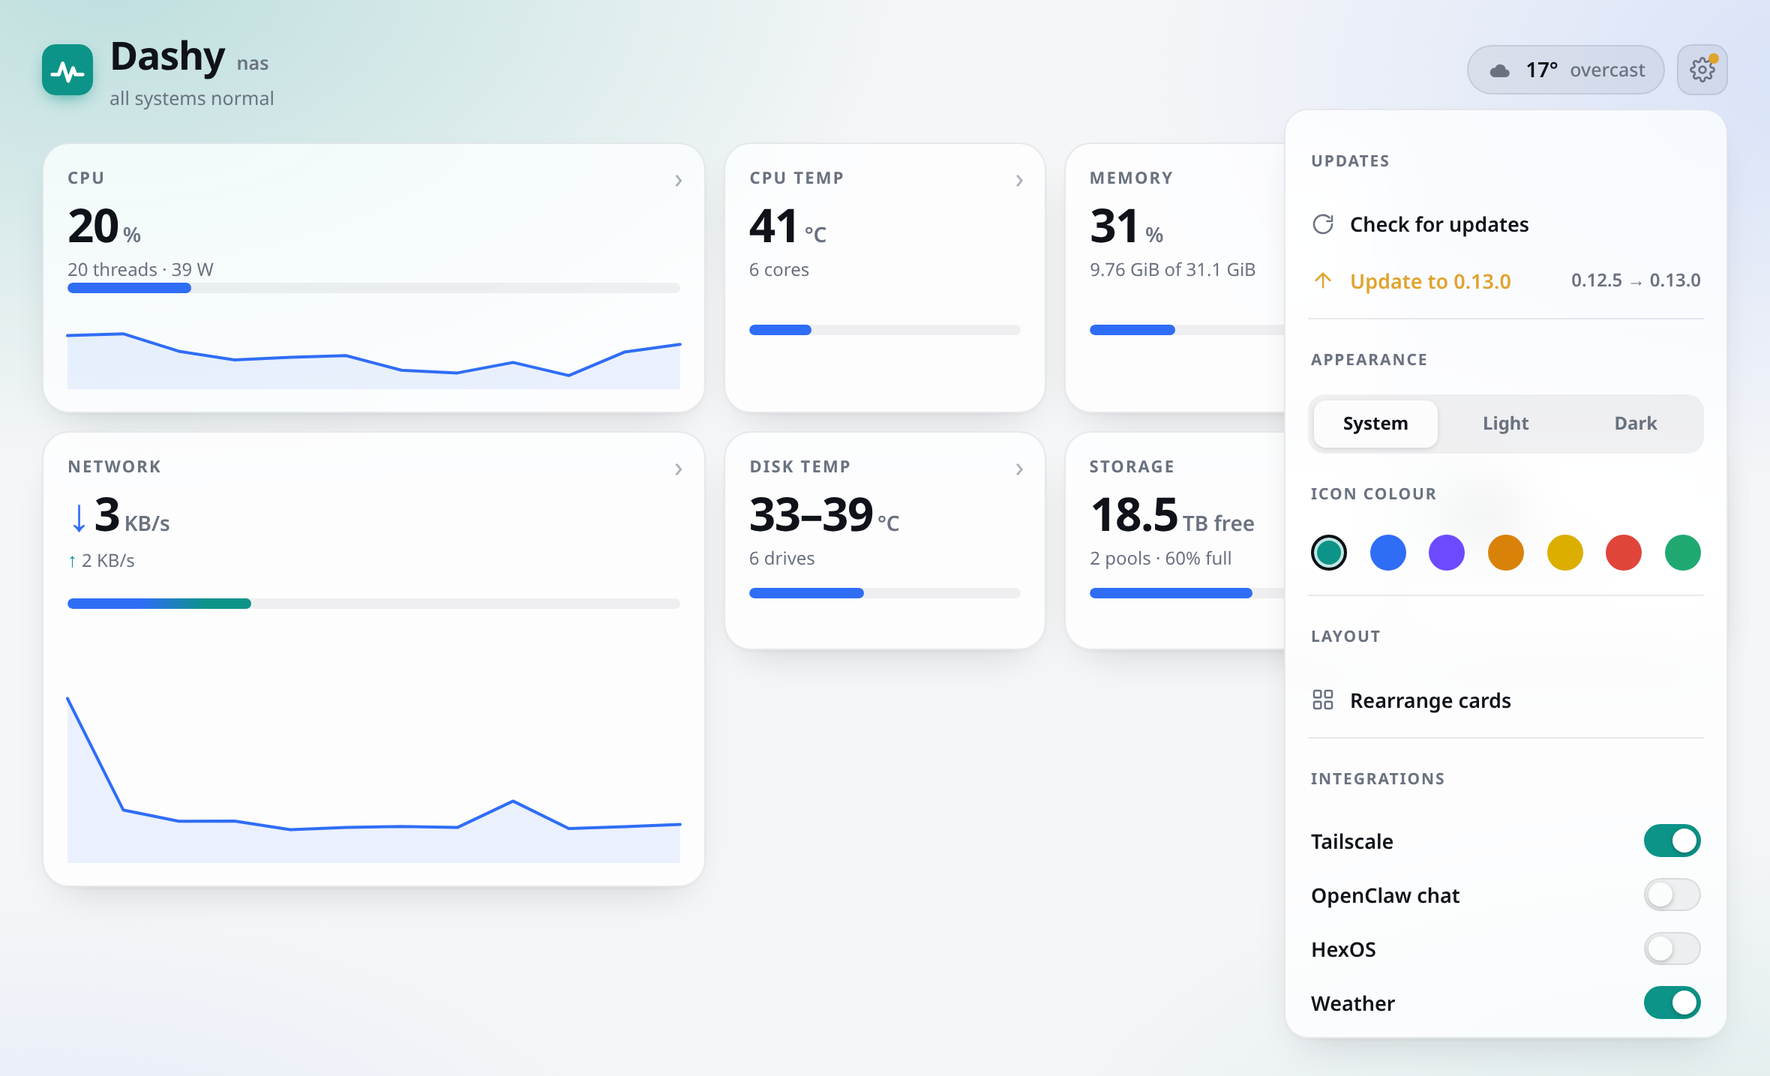
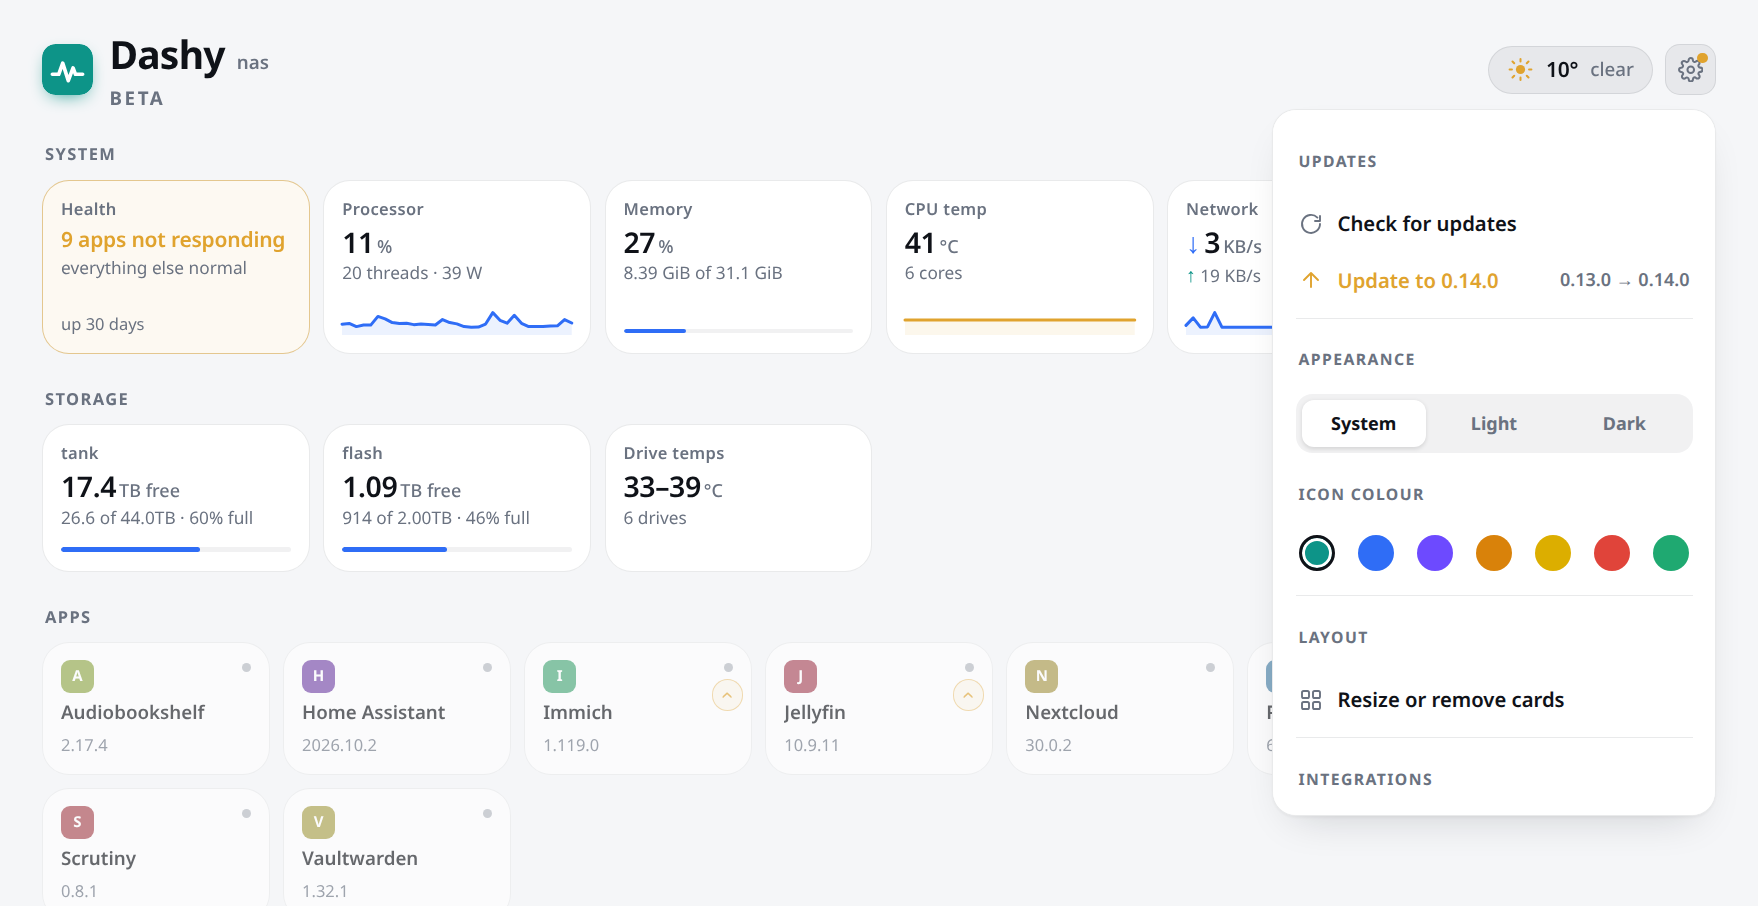
0.13.0: opaque surfaces, arrange tidy-up, new screenshots
- --panel was rgba(255,255,255,.76), left from when every surface sat on a
  backdrop-filter. The redesign dropped the blur, so over the detail sheet's
  dark scrim that 76% white rendered grey. Both palettes are opaque now.
- A pool card opens the storage sheet. It had no data-pop at all, so tapping
  one did nothing.
- The Health card gets the same remove and resize controls as every other
  card; it was the only exception and there was no reason for it.
- Arrange mode drops the "hold to drag" caption, which described a gesture
  that no longer exists and sat across the sparkline. The overlay behind the
  size button is opaque enough to actually hide what is under it.
- Settings says "Resize or remove cards" rather than "Rearrange cards".
- Screenshots retaken on the new design. 04-apps becomes 04-detail: the apps
  are a section on the front page now, so a sheet of them is not the
  interesting half any more.

Taken and verified by driving the real page over CDP - every detail sheet,
the settings menu, arrange mode, resize, remove and restore - with window
errors and unhandled rejections collected throughout. Clean.

diff --git a/app/server.py b/app/server.py
@@ -1200,7 +1200,7 @@ PAGE = """<!doctype html>
 <style>
   :root{
     color-scheme:light dark;
-    --bg:#f5f6f8; --panel:rgba(255,255,255,.76); --brd:rgba(16,20,28,.09);
+    --bg:#f5f6f8; --panel:#ffffff; --brd:rgba(16,20,28,.09);
     --ink:#0f1218; --muted:#6a7280; --faint:rgba(16,20,28,.06);
     --ok:#1fa971; --warn:#e0a32e; --bad:#e0443a;
     --accent:#2f6df6; --brand:#0d9488;
@@ -1211,7 +1211,7 @@ PAGE = """<!doctype html>
      has explicitly chosen light), once for an explicit dark choice */
   @media (prefers-color-scheme:dark){
     :root:not([data-theme="light"]){
-      --bg:#0a0c10; --panel:rgba(23,27,34,.76); --brd:rgba(255,255,255,.09);
+      --bg:#0a0c10; --panel:#171b22; --brd:rgba(255,255,255,.09);
       --ink:#eef1f5; --muted:#949cab; --faint:rgba(255,255,255,.06);
       --ok:#34d399; --warn:#fbbf24; --bad:#f87171;
       --accent:#5b8cff; --brand:#14b8a6;
@@ -1220,7 +1220,7 @@ PAGE = """<!doctype html>
     }
   }
   :root[data-theme="dark"]{
-      --bg:#0a0c10; --panel:rgba(23,27,34,.76); --brd:rgba(255,255,255,.09);
+      --bg:#0a0c10; --panel:#171b22; --brd:rgba(255,255,255,.09);
       --ink:#eef1f5; --muted:#949cab; --faint:rgba(255,255,255,.06);
       --ok:#34d399; --warn:#fbbf24; --bad:#f87171;
       --accent:#5b8cff; --brand:#14b8a6;
@@ -1397,7 +1397,7 @@ PAGE = """<!doctype html>
             -webkit-touch-callout:none}
   .cardwrap .card{width:100%}
   .cardtools{position:absolute;inset:0;display:none;align-items:center;justify-content:center;
-             gap:7px;background:color-mix(in srgb,var(--panel) 86%,transparent);
+             gap:7px;background:color-mix(in srgb,var(--panel) 97%,transparent);
              border-radius:var(--r);z-index:3}
   body.editing .cardtools{display:flex}
   .cardtools button{width:30px;height:30px;border-radius:9px;border:1px solid var(--brd);
@@ -1416,8 +1416,6 @@ PAGE = """<!doctype html>
         box-shadow:0 1px 3px rgba(0,0,0,.34),0 0 0 .5px rgba(0,0,0,.12)}
   body.editing .xbtn{display:flex}
   .cardwrap[data-off="1"] .xbtn{color:var(--ok);font-weight:700}
-  .cardtools .hint{position:absolute;bottom:8px;left:0;right:0;text-align:center;
-                   font-size:10px;color:var(--muted);font-weight:600;pointer-events:none}
   .cardwrap[data-off="1"] .card,
   .cardwrap[data-off="1"] .cardtools{opacity:.34}
   body:not(.editing) .cardwrap[data-off="1"]{display:none}
@@ -1774,7 +1772,7 @@ PAGE = """<!doctype html>
           <button class="mi" id="mi-edit" type="button" role="menuitem">
             <svg viewBox="0 0 24 24" fill="none" stroke="currentColor" stroke-width="1.9"
                  stroke-linecap="round" stroke-linejoin="round"><rect x="3" y="3" width="7" height="7" rx="1.6"/><rect x="14" y="3" width="7" height="7" rx="1.6"/><rect x="3" y="14" width="7" height="7" rx="1.6"/><rect x="14" y="14" width="7" height="7" rx="1.6"/></svg>
-            Rearrange cards</button>
+            Resize or remove cards</button>
           <div class="msep"></div>
           <p class="mh">Integrations</p>
           <div class="mrow"><span class="ml">Tailscale</span>
@@ -2429,6 +2427,13 @@ function resetLayout(){
   savePrefs(); build(); if(data) paint(data);
 }
 
+function cardTools(k){
+  return '<div class="cardtools">'+
+      '<button type="button" class="wbtn" data-wide="'+k+'" aria-label="Change size"></button>'+
+    '</div>'+
+    '<button type="button" class="xbtn" data-eye="'+k+'" aria-label="Remove"></button>';
+}
+
 function cardHTML(c){
   // the one card that answers a question rather than reporting a number
   if(c.kind==='health'){
@@ -2438,7 +2443,7 @@ function cardHTML(c){
                '<p class="hv" id="v-health">\u2013</p>'+
                '<p class="sub" id="s-health"></p>'+
                '<p class="hfoot" id="f-health"></p>'+
-             '</button>'+
+             '</button>'+cardTools(c.k)+
            '</div></div>';
   }
   const head = c.dot
@@ -2451,14 +2456,10 @@ function cardHTML(c){
   const spark = c.trend
     ? '<div class="sparkwrap"><svg class="spark" id="k-'+c.k+
       '" preserveAspectRatio="none" viewBox="0 0 160 20"></svg></div>' : '';
-  const tools='<div class="cardtools">'+
-      '<button type="button" class="wbtn" data-wide="'+c.k+'" aria-label="Change size"></button>'+
-      '<span class="hint">hold to drag</span>'+
-    '</div>'+
-    '<button type="button" class="xbtn" data-eye="'+c.k+'" aria-label="Remove"></button>';
+  const tools=cardTools(c.k);
   return '<div class="cardwrap" data-k="'+c.k+'">'+
            '<div class="jig">'+
-             '<button class="card" data-pop="'+c.k+'">'+
+             '<button class="card" data-pop="'+(c.pop||c.k)+'">'+
                '<p class="lbl">'+c.label+'</p>'+body+spark+
              '</button>'+tools+
            '</div>'+
@@ -2471,7 +2472,7 @@ function cardHTML(c){
    to know. */
 function poolCards(){
   return ((data&&data.pools)||[]).map(p=>({
-    k:'pool-'+p.name, label:p.name, sec:'storage', bar:1, pool:p.name}));
+    k:'pool-'+p.name, label:p.name, sec:'storage', bar:1, pop:'store', pool:p.name}));
 }
 function layoutSig(){
   const pools=((data&&data.pools)||[]).map(p=>p.name).join(',');

diff --git a/README.md b/README.md
@@ -36,8 +36,8 @@ add and remove things.
 
 | | |
 |:--:|:--:|
-| ![Phone](docs/03-phone.png) | ![Apps](docs/04-apps.png) |
-| On a phone | Apps, with versions and update markers |
+| ![Phone](docs/03-phone.png) | ![Storage detail](docs/04-detail.png) |
+| On a phone | Every card opens a detail sheet |
 | ![Settings](docs/05-settings.png) | ![Arrange](docs/06-arrange.png) |
 | Settings | Hold a tile to arrange: **2×** resizes, **×** removes |
 
